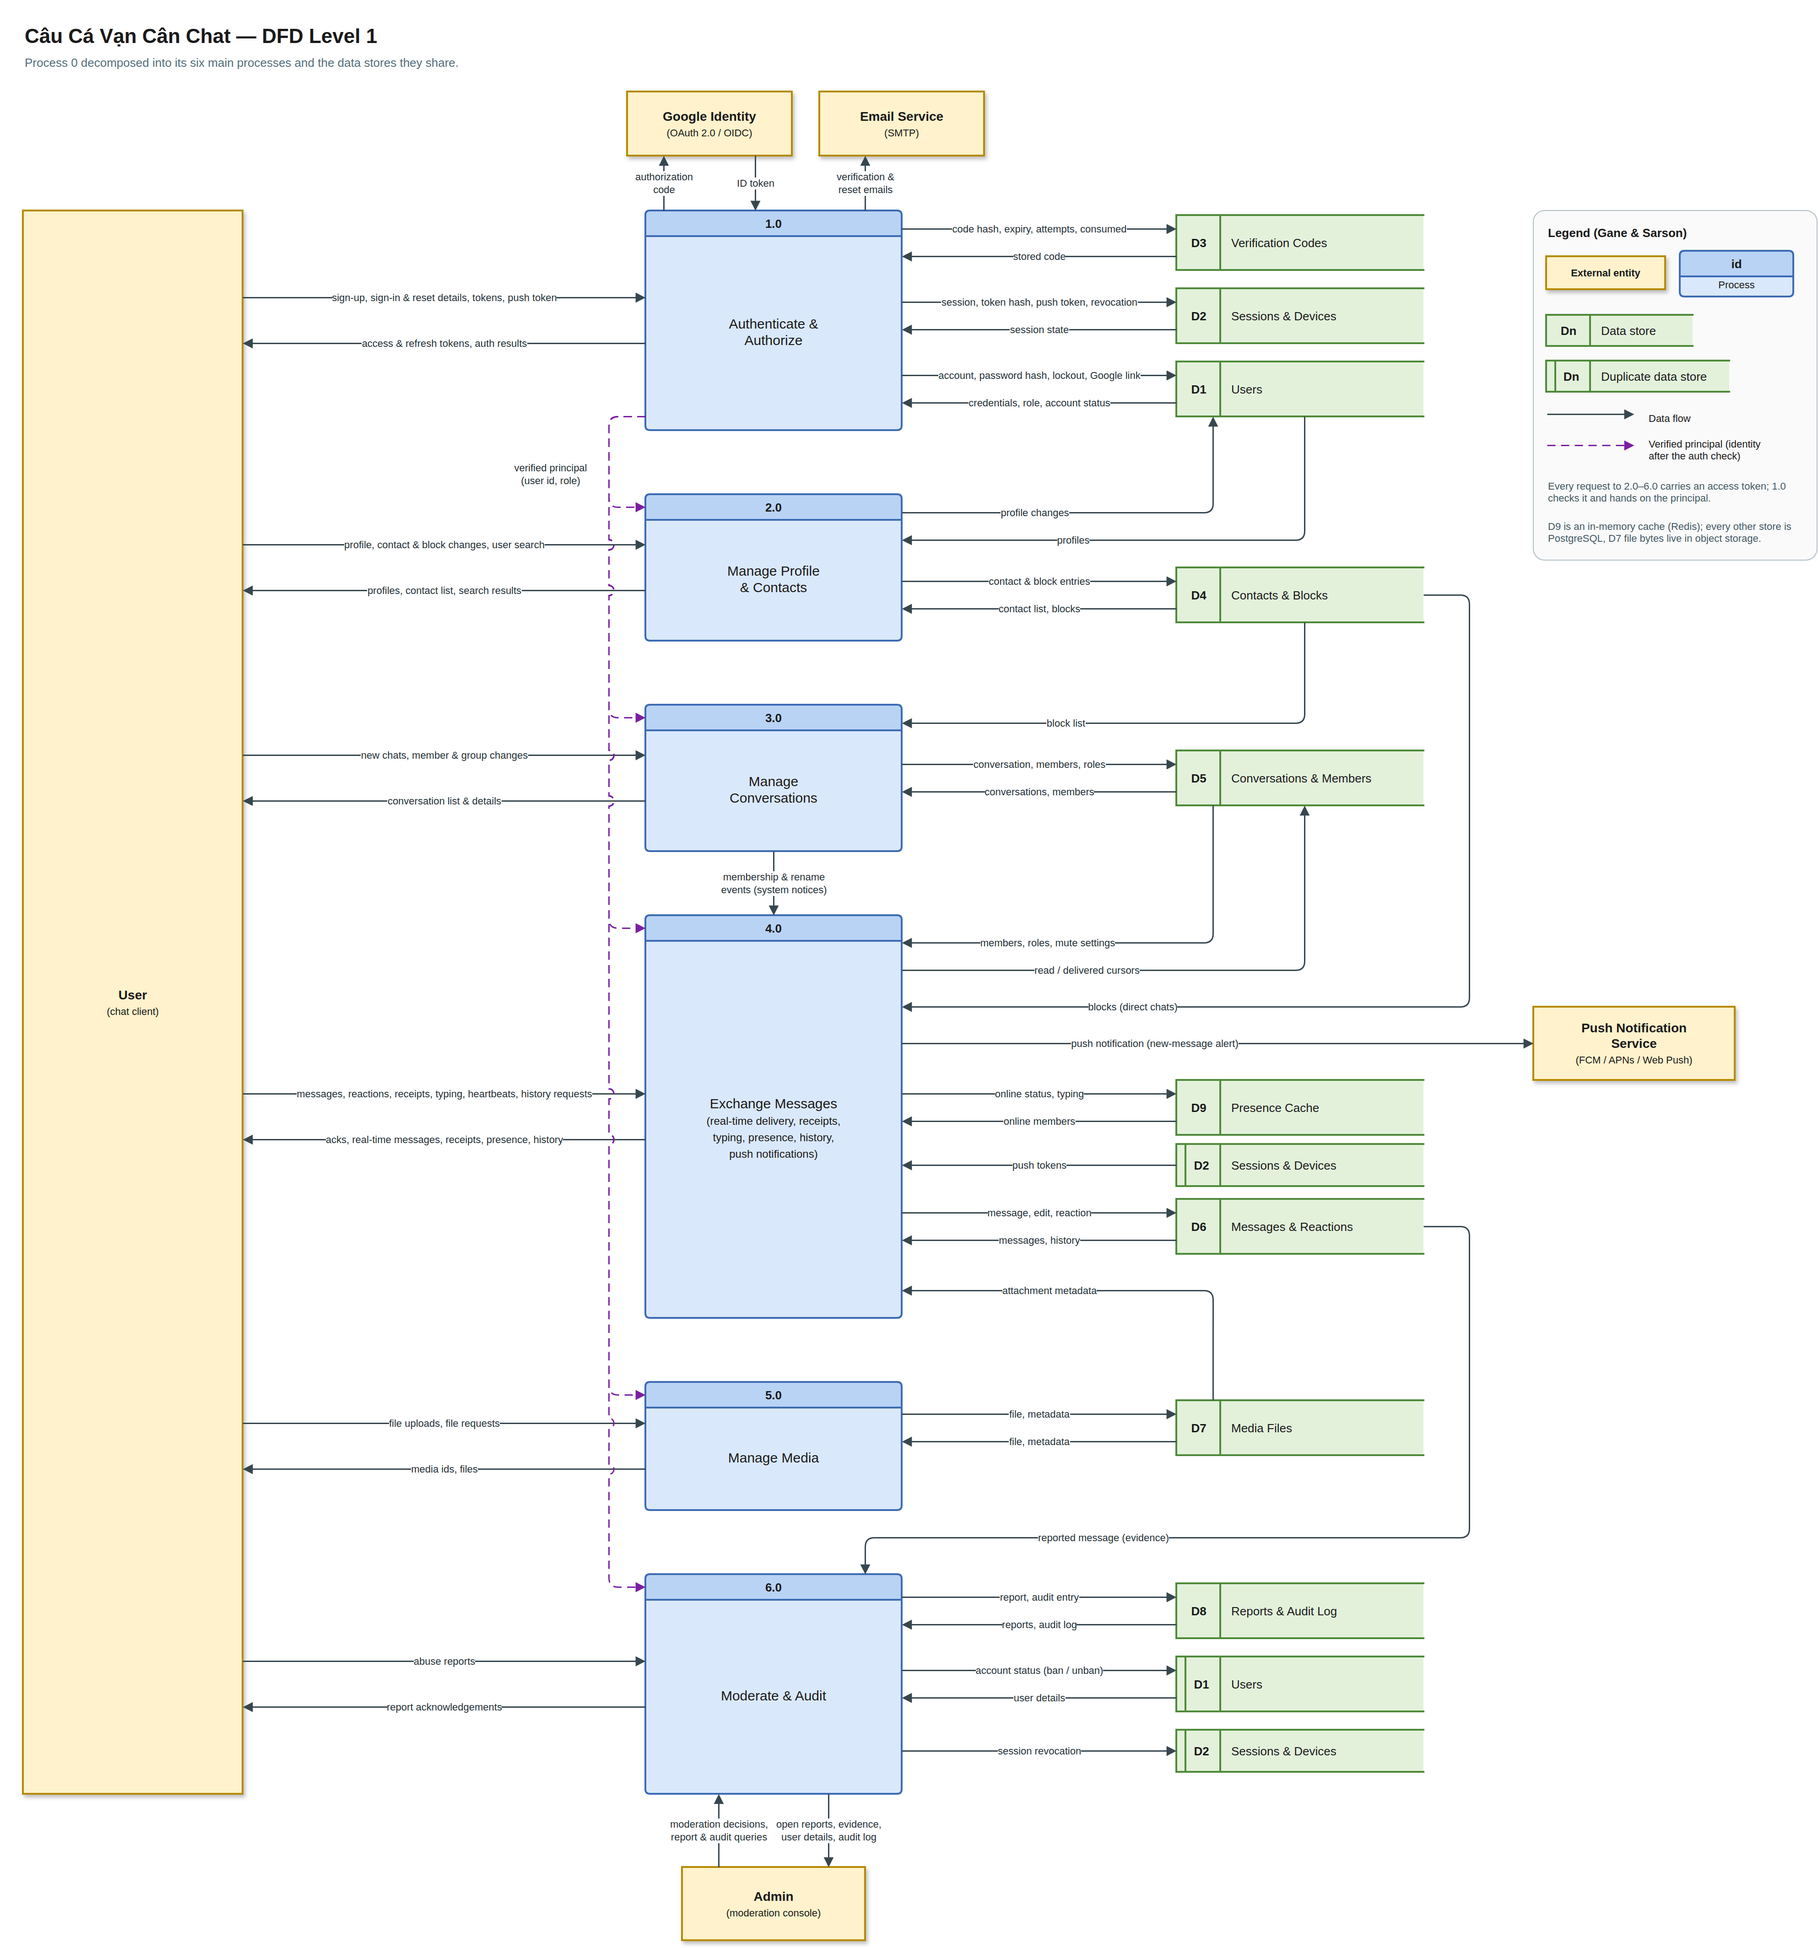
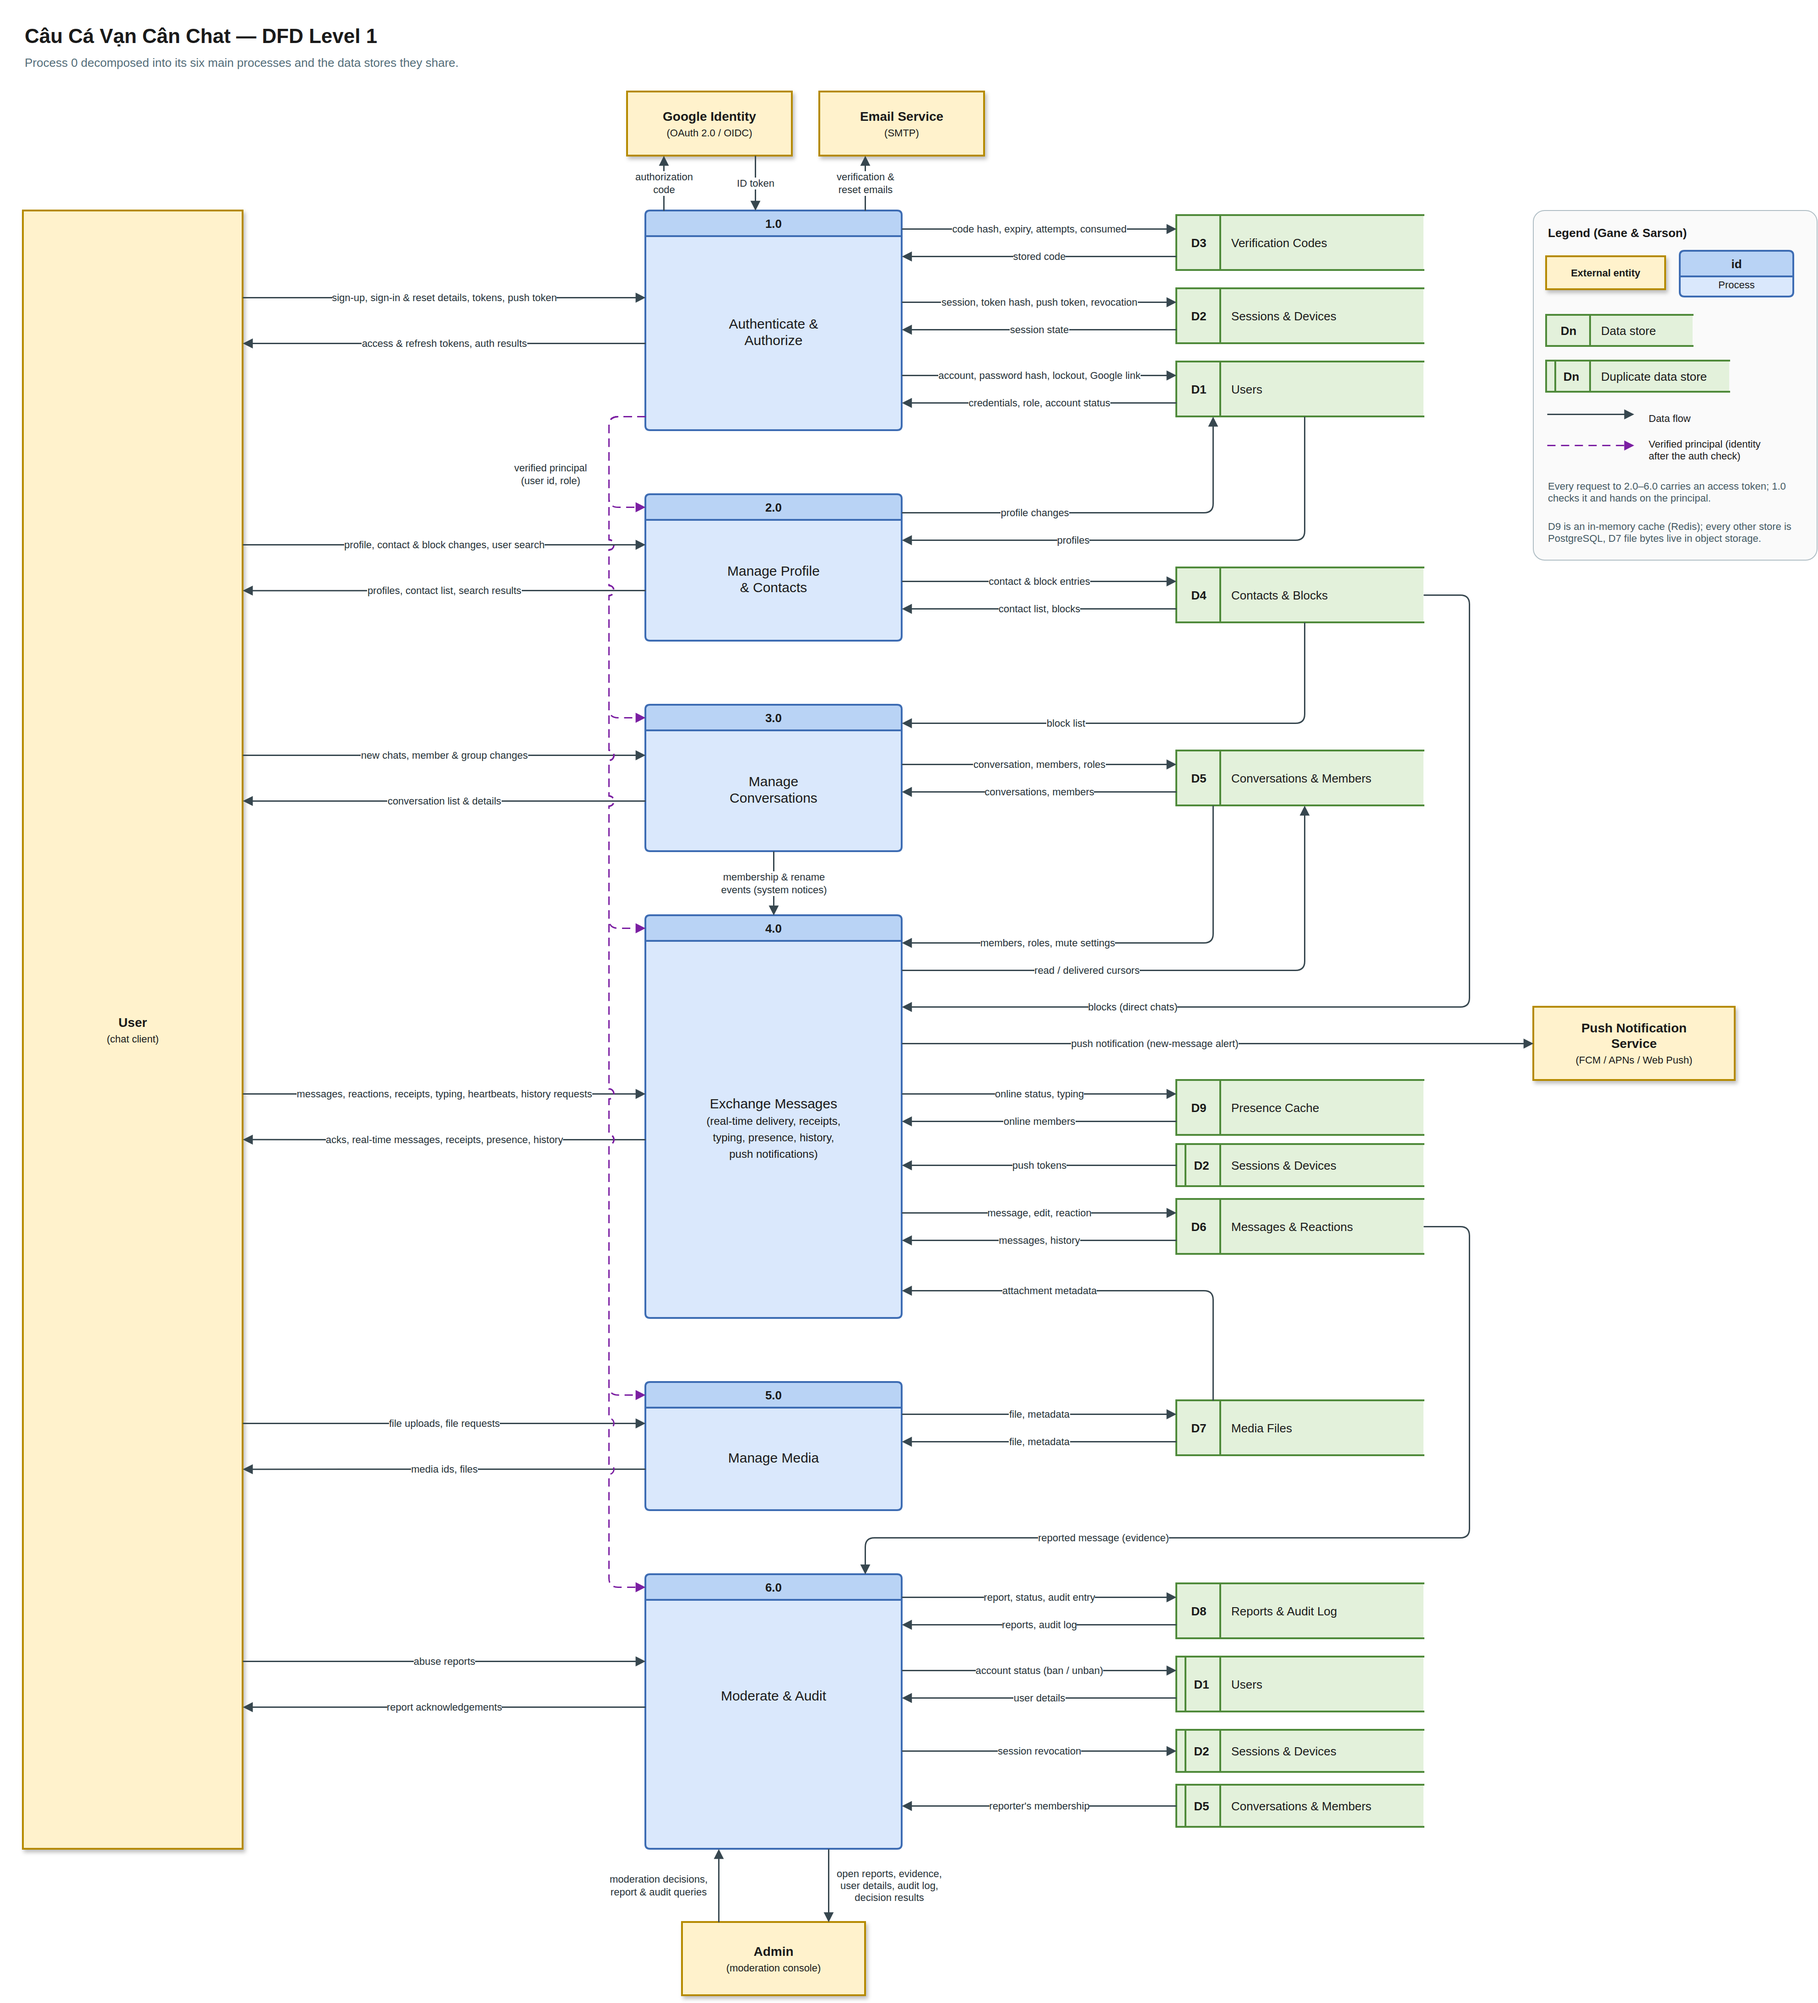
docs: add DFD level 2 for 6.0 Moderate & Audit
Level 1 now shows 6.0 reading D5 to check the reporter is a member of the
reported message's conversation, and the admin output includes decision
results (also in the context diagram) so all levels stay balanced.

diff --git a/docs/README.md b/docs/README.md
@@ -15,6 +15,7 @@ All diagrams are draw.io files in [diagrams/](diagrams/), each with a light-mode
 | 2 | DFD level 1 | [02-dfd-level-1.drawio](diagrams/02-dfd-level-1.drawio) |
 | 3a | DFD level 2: 1.0 Authenticate & Authorize | [03a-dfd-level-2-auth.drawio](diagrams/03a-dfd-level-2-auth.drawio) |
 | 3b | DFD level 2: 4.0 Exchange Messages | [03b-dfd-level-2-messaging.drawio](diagrams/03b-dfd-level-2-messaging.drawio) |
+| 3c | DFD level 2: 6.0 Moderate & Audit | [03c-dfd-level-2-moderation.drawio](diagrams/03c-dfd-level-2-moderation.drawio) |
 | 4 | Entity relationship diagram | [04-erd.drawio](diagrams/04-erd.drawio) |
 
 ## Notation
@@ -73,8 +74,8 @@ The ERD uses **crow's-foot** notation. Each table's header colour matches the DF
 
 ## 3. DFD level 2
 
-Only the two processes with real internal logic are decomposed. Processes 2.0, 3.0, 5.0 and 6.0
-are mostly validate-then-read/write and are already fully described at level 1.
+The processes with real internal logic are decomposed: auth, messaging, and moderation. Processes
+2.0, 3.0 and 5.0 are mostly validate-then-read/write and are already fully described at level 1.
 
 ### 3a. Process 1.0 Authenticate & Authorize
 
@@ -104,6 +105,20 @@ Banning a user in 6.0 revokes their sessions in D2, so both 1.5 and 1.7 reject t
 | 4.4 Send Push Notifications | Skips muted members and sends a short preview to each device's push token |
 | 4.5 Track Receipts, Typing & Presence | Moves each member's read / delivered cursor, keeps online and typing state in Redis, and emits those events through 4.3 |
 | 4.6 Serve History & Sync | Returns message pages before or after a `seq`, so a reconnecting client fills exactly the gap it missed |
+
+### 3c. Process 6.0 Moderate & Audit
+
+![DFD level 2 for 6.0](diagrams/03c-dfd-level-2-moderation.png)
+
+| Sub-process | Does |
+|-------------|------|
+| 6.1 Submit Report | Any signed-in user reports a user or message. Checks the reporter is a member of that message's conversation, then stores the report with a snapshot of the message as evidence |
+| 6.2 Review Reports | Lists open reports with their evidence and the users involved. Every view of evidence is sent to 6.3, because admins are reading private messages |
+| 6.3 Record Audit Entry | The only writer of the audit log. It records who did what to which target; entries are never updated or deleted |
+| 6.4 Apply Moderation Decision | Bans or unbans a user and actions or dismisses a report. A ban sets the account status and revokes every session, so the user is signed out everywhere at once |
+| 6.5 Query Audit Log | Lets admins search the audit log by actor, action and date |
+
+6.2, 6.4 and 6.5 need `role = admin` in the verified principal; 6.1 is open to every user.
 
 ## 4. ERD
 
